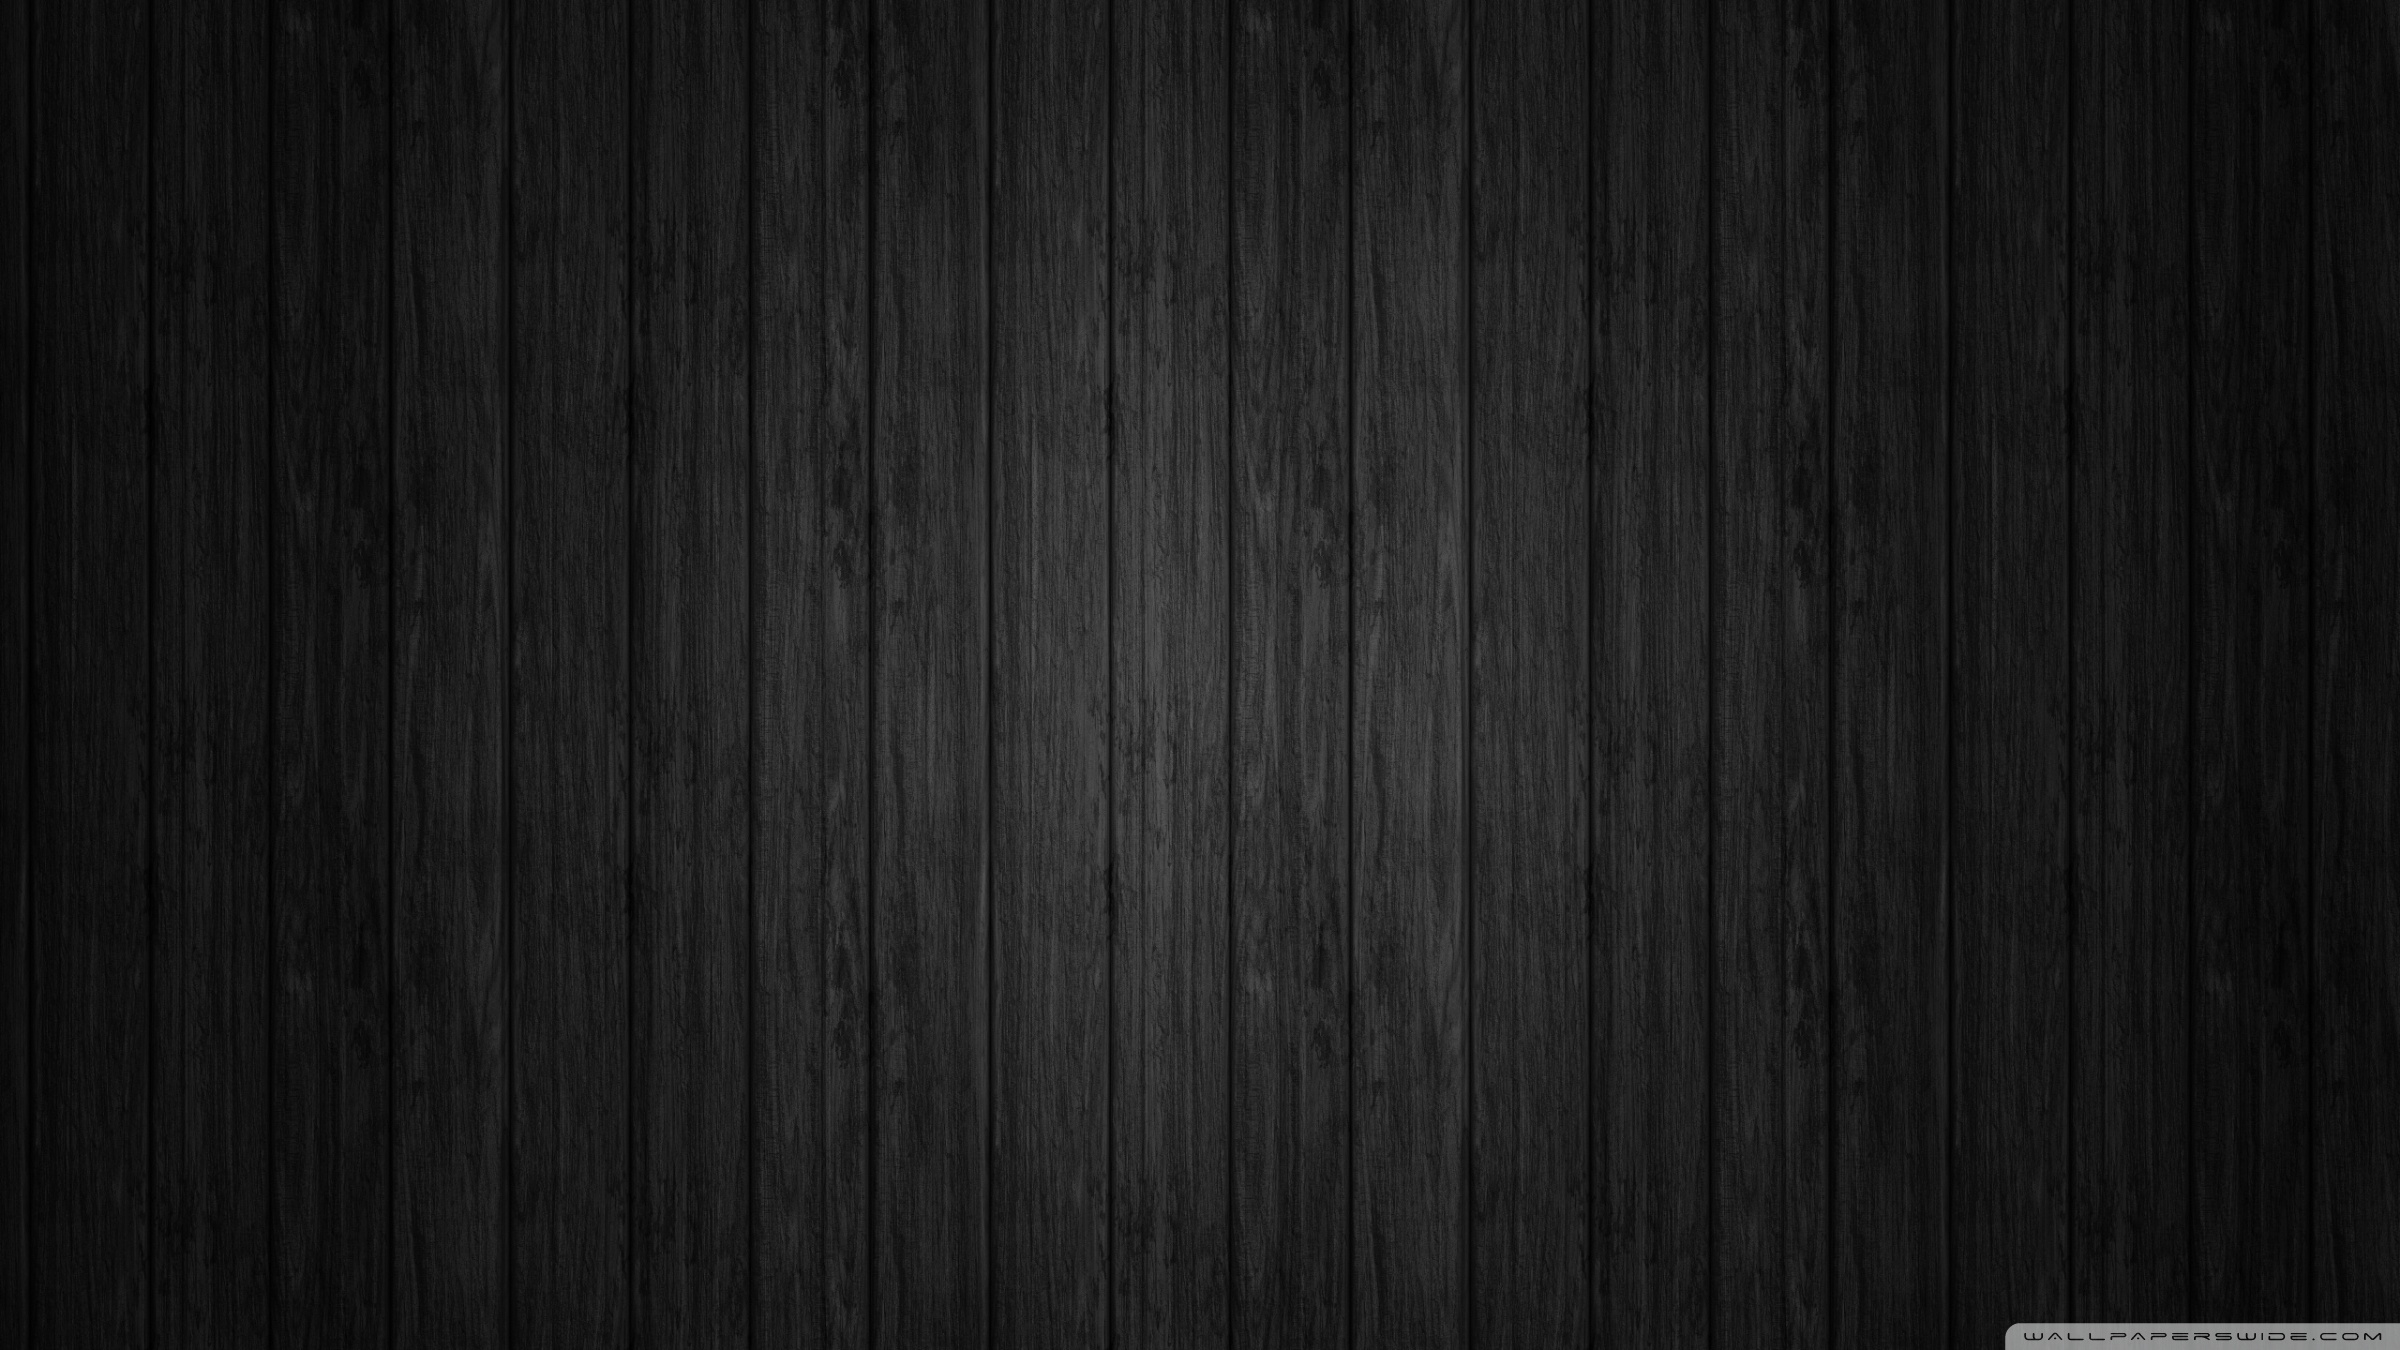
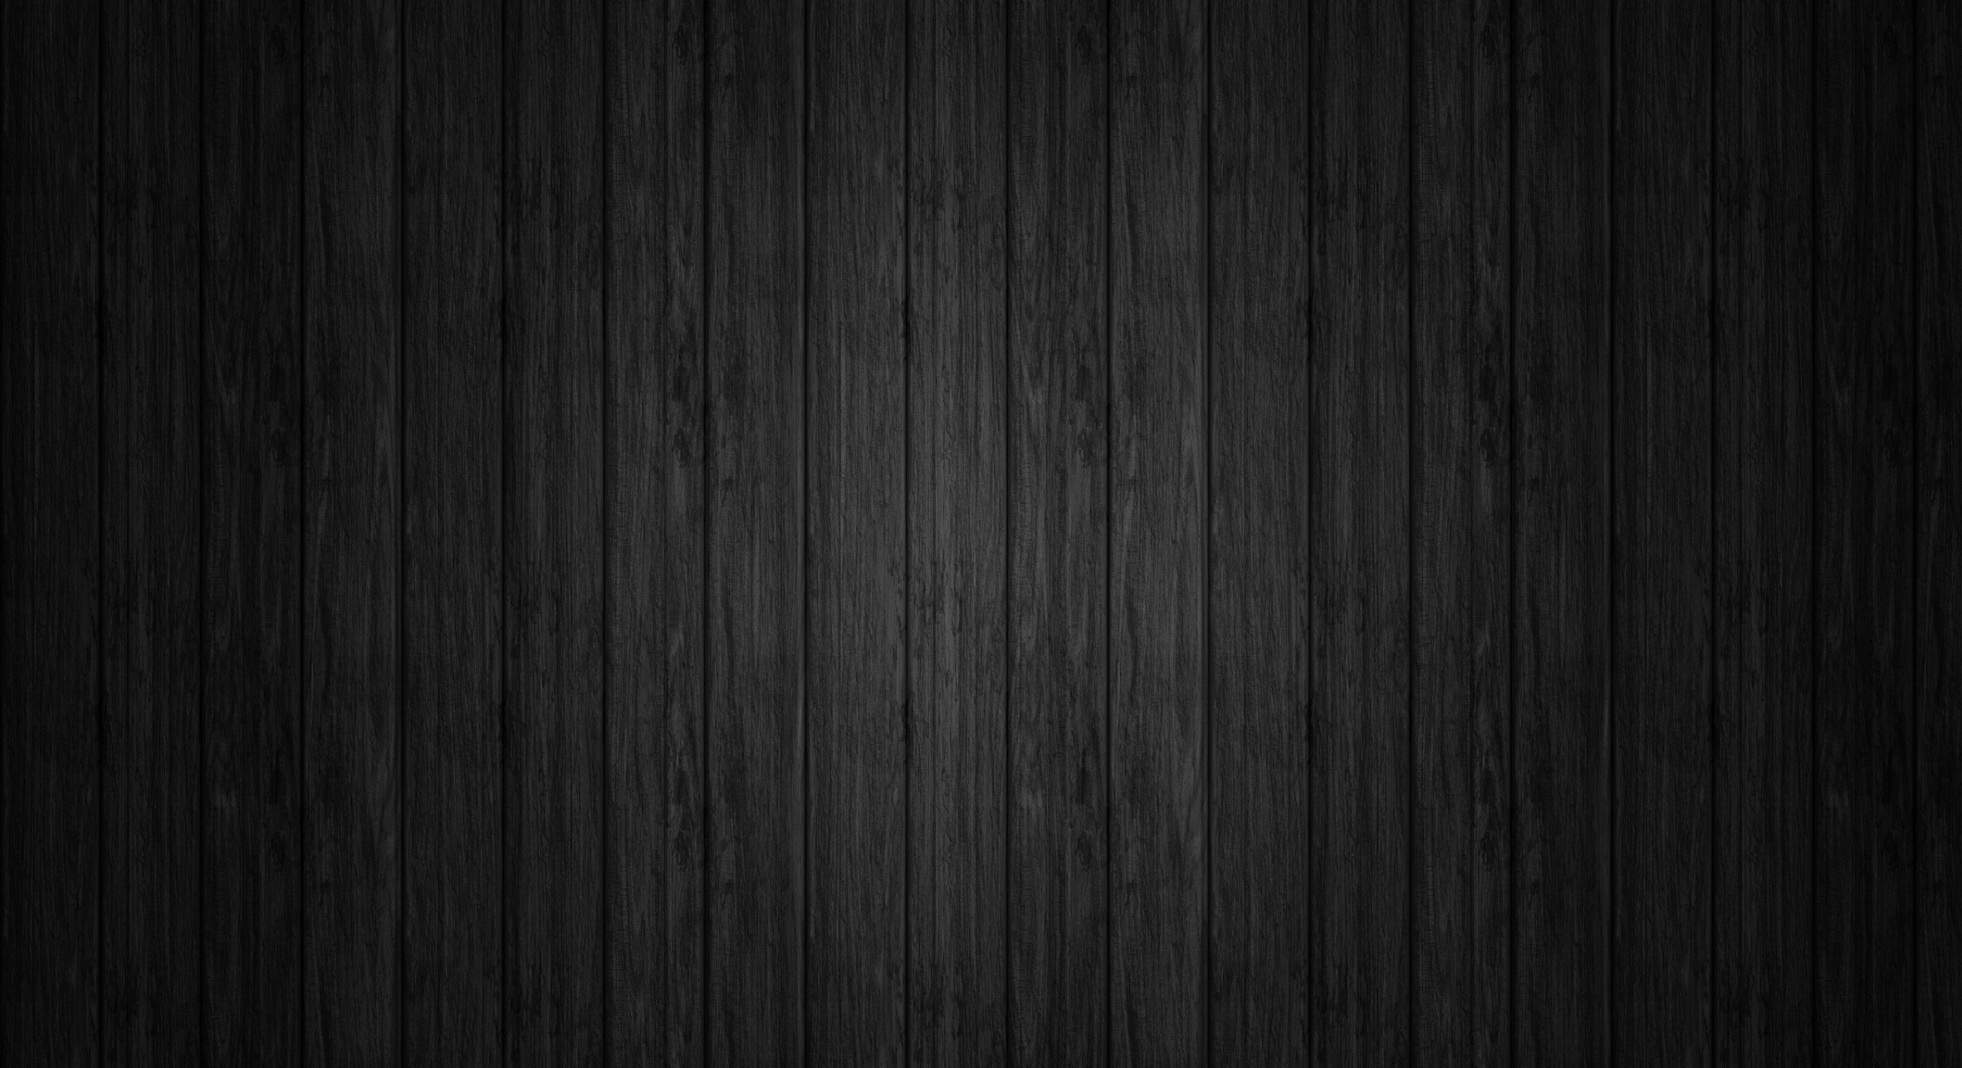
Live Map + infoWindow
-Map is from the parsed data
-each construction on map can be shared

diff --git a/app/assets/stylesheets/custom.css.scss b/app/assets/stylesheets/custom.css.scss
@@ -5,6 +5,10 @@
 
 body {
   padding-top: 60px;
+  background-repeat: no-repeat;
+  background-position: center center;
+  background-attachment: fixed;
+  background-size: cover
 }
 
 section {
@@ -170,5 +174,9 @@ input {
 }
 
 .check{
-  color:white
+  color:white;
+  text-align: center;
+  border-style: solid;
+  border-width: medium;
+  border-color: #4C4C4C;
 }

diff --git a/app/controllers/welcome_controller.rb b/app/controllers/welcome_controller.rb
@@ -5,22 +5,19 @@ class WelcomeController < ApplicationController
   require 'nokogiri'
 
   before_action :logged_in_user, only: [:map]
+  before_action :admin_user,     only: [:update]
 
   include WelcomeHelper
   helper :all
 
   def index
-  end
-
-  def map
     @RC = RcConstruction.all
     @OG = IpConstruction.all
     @FC = UpConstruction.all
-
   end
+
   
   def about
-
   end
 
 
@@ -49,6 +46,14 @@ class WelcomeController < ApplicationController
         store_location
         flash[:danger] = "Please log in."
         redirect_to login_url
+      end
+    end
+
+# Confirms an admin user.
+    def admin_user
+      if not current_user.admin? 
+        redirect_to(root_url) 
+        flash[:danger] = "Sorry! You don't have access"
       end
     end
 end
